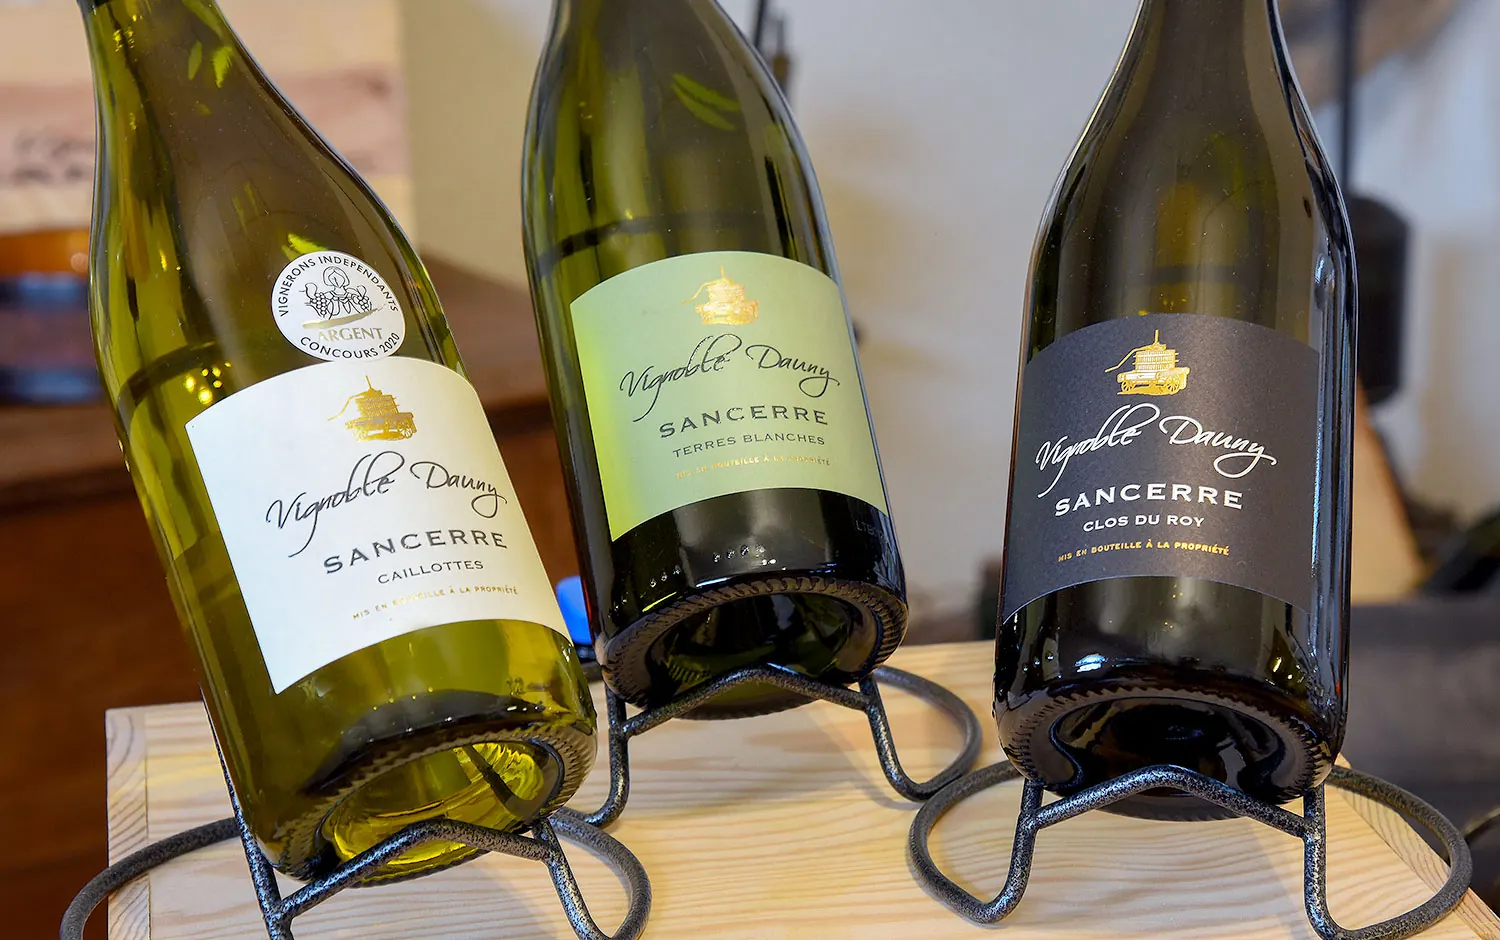
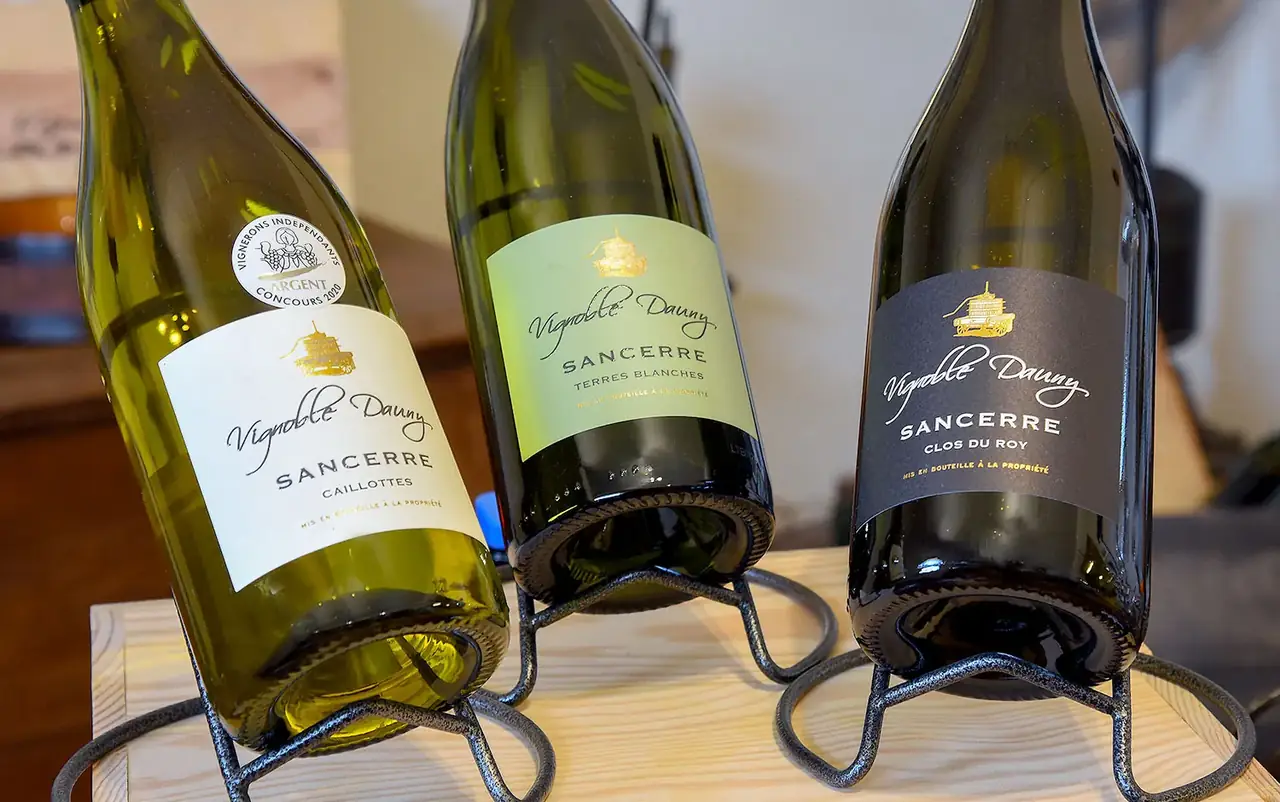
Lighten the site for modest computers
The 3D scenes draw at most 1.5 pixels per CSS pixel (1, without
antialiasing, on devices with few cores or little memory) and only redraw
while something moves; modest devices also skip the front bottle's sway.
Photos are resized to 1280 pixels at most and recompressed (4.4 to 2.7 MB).

Claude-Session: https://claude.ai/code/session_01N1zkf8bkxQHkhdCxTQ4Zvu

diff --git a/src/components/bottles-3d.tsx b/src/components/bottles-3d.tsx
@@ -4,6 +4,7 @@ import { RoomEnvironment } from "three/examples/jsm/environments/RoomEnvironment
 
 import { BOTTLE_CAPSULE_Y, BOTTLE_PROFILE } from "@/components/bottle-profile"
 import bottleShapes from "@/data/bottle-shapes.json"
+import { IDLE_REDRAW_MS, lowPower, pixelRatio } from "@/lib/graphics"
 import type { BottleLook, WineStyle } from "@/data/content"
 
 export type BottleSpec = {
@@ -600,8 +601,10 @@ export default function Bottles3D({ bottles, estateName, selected, onSelect }: P
     // Space at least 4 slots around the ring so a small set never hides a bottle behind another.
     const step = TAU / Math.max(n, 4)
 
-    const renderer = new THREE.WebGLRenderer({ antialias: true, alpha: true })
-    renderer.setPixelRatio(Math.min(window.devicePixelRatio, 2))
+    const renderer = new THREE.WebGLRenderer({ antialias: !lowPower, alpha: true })
+    renderer.setPixelRatio(pixelRatio())
+    // When the scene was last drawn (0: draw on the next frame).
+    let lastDraw = 0
     renderer.toneMapping = THREE.ACESFilmicToneMapping
     renderer.toneMappingExposure = 1.05
     renderer.outputColorSpace = THREE.SRGBColorSpace
@@ -673,6 +676,7 @@ export default function Bottles3D({ bottles, estateName, selected, onSelect }: P
       const { clientWidth: w, clientHeight: h } = container
       if (!w || !h) return
       renderer.setSize(w, h)
+      lastDraw = 0
       camera.aspect = w / h
       // Pull back on narrow screens so the front bottle always fits.
       const dist = camera.aspect < 0.8 ? 7.9 : 6.9
@@ -749,11 +753,13 @@ export default function Bottles3D({ bottles, estateName, selected, onSelect }: P
 
     const clock = new THREE.Clock()
     let raf = 0
+    // Modest devices skip the front bottle's sway and draw only while something moves.
     const tick = () => {
       raf = requestAnimationFrame(tick)
       if (!visible) return
       const dt = Math.min(clock.getDelta(), 0.05)
       const t = clock.elapsedTime
+      let moving = dragging || Math.abs(target - current) > 1e-4
       current += (target - current) * Math.min(1, dt * (dragging ? 14 : 4.5))
       ring.rotation.y = current
 
@@ -761,13 +767,18 @@ export default function Bottles3D({ bottles, estateName, selected, onSelect }: P
       items.forEach((b, i) => {
         const isFront = i === front
         const lift = isFront ? 0.1 : 0
+        if (Math.abs(lift - b.position.y) > 1e-4) moving = true
         b.position.y += (lift - b.position.y) * Math.min(1, dt * 5)
         // The reflection stays on the table while the bottle lifts.
         b.userData.mirror.position.y = -2 * b.position.y
-        const sway = isFront && !reduceMotion && !dragging ? Math.sin(t * 0.7) * 0.28 : 0
+        const sway = isFront && !reduceMotion && !lowPower && !dragging ? Math.sin(t * 0.7) * 0.28 : 0
         const baseRot = i * step
+        if (Math.abs(baseRot + sway - b.rotation.y) > 1e-4) moving = true
         b.rotation.y += (baseRot + sway - b.rotation.y) * Math.min(1, dt * 3)
       })
+      const now = performance.now()
+      if (!moving && now - lastDraw < IDLE_REDRAW_MS) return
+      lastDraw = now
       renderer.render(scene, camera)
     }
     tick()

diff --git a/src/components/bottle-lineup.tsx b/src/components/bottle-lineup.tsx
@@ -4,6 +4,7 @@ import { RoomEnvironment } from "three/examples/jsm/environments/RoomEnvironment
 
 import { buildBottle, shadowMaterial, sunShadow, type BottleSpec } from "@/components/bottles-3d"
 import { buildBasket } from "@/components/wicker-basket"
+import { IDLE_REDRAW_MS, lowPower, pixelRatio } from "@/lib/graphics"
 
 type Props = {
   bottles: BottleSpec[]
@@ -51,8 +52,10 @@ export default function BottleLineup({
     const n = bottles.length
 
     // The stencil lets each sun shadow darken the ground once where its triangles overlap.
-    const renderer = new THREE.WebGLRenderer({ antialias: true, alpha: true, stencil: true })
-    renderer.setPixelRatio(Math.min(window.devicePixelRatio, 2))
+    const renderer = new THREE.WebGLRenderer({ antialias: !lowPower, alpha: true, stencil: true })
+    renderer.setPixelRatio(pixelRatio())
+    // When the scene was last drawn (0: draw on the next frame).
+    let lastDraw = 0
     renderer.toneMapping = THREE.ACESFilmicToneMapping
     renderer.toneMappingExposure = 1.05
     renderer.outputColorSpace = THREE.SRGBColorSpace
@@ -127,6 +130,7 @@ export default function BottleLineup({
       const { clientWidth: w, clientHeight: h } = container
       if (!w || !h) return
       renderer.setSize(w, h)
+      lastDraw = 0
       if (flat) {
         flat.position.set(0, 0, 20)
         flat.updateProjectionMatrix()
@@ -183,10 +187,12 @@ export default function BottleLineup({
 
     const clock = new THREE.Clock()
     let raf = 0
+    // The bottles stand still: draw only while one moves, and now and then for textures still loading.
     const tick = () => {
       raf = requestAnimationFrame(tick)
       if (!visible) return
       const dt = Math.min(clock.getDelta(), 0.05)
+      let moving = false
       items.forEach((b, i) => {
         // The bottle under the pointer comes forward: lifted out of the basket, or stepping forward on
         // the ground (lifted, it would float off the soil).
@@ -194,12 +200,16 @@ export default function BottleLineup({
         const lifts = basket || !!frame
         const y = floor + (lifts && picked ? 0.4 : 0)
         const z = b.userData.baseZ + (!lifts && picked ? 0.45 : 0)
+        if (Math.abs(y - b.position.y) > 1e-4 || Math.abs(z - b.position.z) > 1e-4) moving = true
         b.position.y += (y - b.position.y) * Math.min(1, dt * 6)
         b.position.z += (z - b.position.z) * Math.min(1, dt * 6)
         // Standing still, labels to the front.
         b.rotation.y = b.userData.baseRotation
         b.userData.alignShadow?.()
       })
+      const now = performance.now()
+      if (!moving && now - lastDraw < IDLE_REDRAW_MS) return
+      lastDraw = now
       renderer.render(scene, camera)
     }
     tick()

diff --git a/src/lib/graphics.ts b/src/lib/graphics.ts
@@ -1,0 +1,16 @@
+/**
+ * Whether this device looks modest (few processor cores or little memory, as many office or older
+ * laptops): the 3D scenes then draw fewer pixels, without antialiasing, and stop idle animations.
+ */
+export const lowPower = (() => {
+  if (typeof navigator === "undefined") return false
+  const cores = navigator.hardwareConcurrency || 4
+  const memory = (navigator as Navigator & { deviceMemory?: number }).deviceMemory ?? 8
+  return cores <= 4 || memory <= 4
+})()
+
+/** Pixels drawn per CSS pixel: never beyond 1.5 (sharp enough, and far cheaper than 2), 1 on modest devices. */
+export const pixelRatio = () => Math.min(window.devicePixelRatio || 1, lowPower ? 1 : 1.5)
+
+/** How often a still scene is redrawn anyway, to pick up textures that finish loading, in milliseconds. */
+export const IDLE_REDRAW_MS = 400
